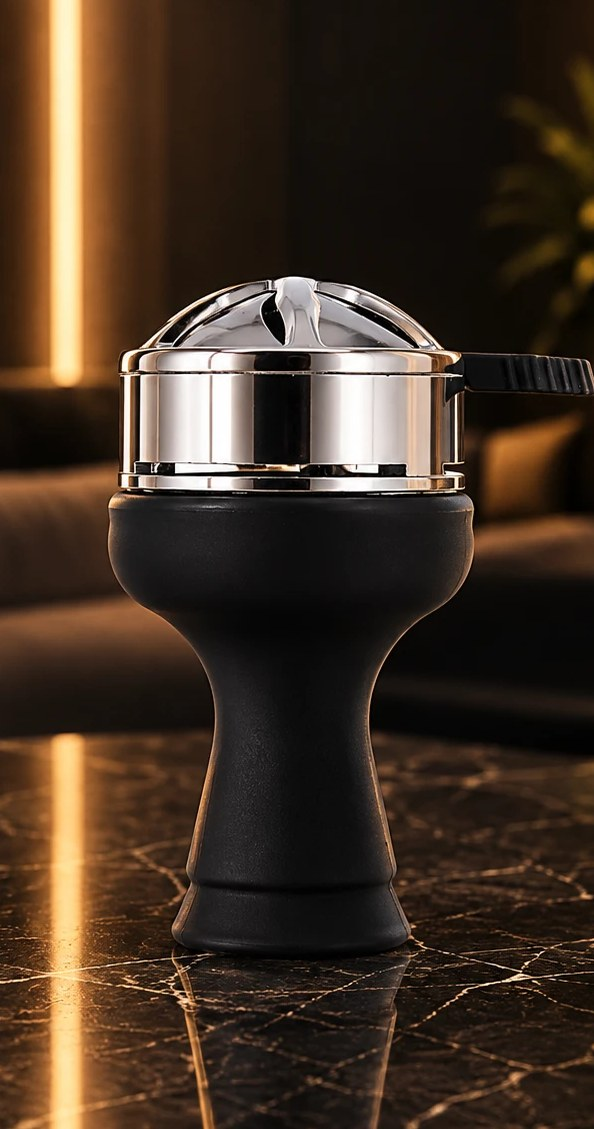
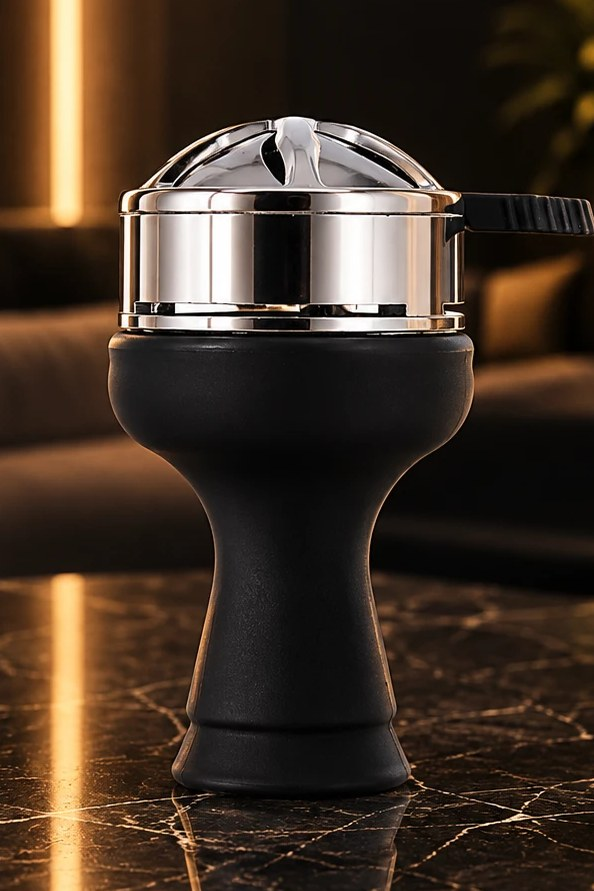
Carte : chichas recadrées au centre (2:3), photos Quasar et Quasar + Tête inversées, cartes produits photo pleine avec nom et prix sur l'image, reflet et entrée animée
Claude-Session: https://claude.ai/code/session_01BejmgSmocDxL4pRLqQbBKK

diff --git a/src/app/[locale]/carte/[categorie]/page.tsx b/src/app/[locale]/carte/[categorie]/page.tsx
@@ -36,34 +36,47 @@ export default async function MenuCategoryPage({ params }: { params: Promise<{ l
         </ol>
       </nav>
 
-      <h1 className="pt-10 text-center text-[clamp(2.6rem,7vw,4rem)] leading-none">{tr(c.name, lang)}</h1>
+      <h1 className="enter-rise pt-10 text-center text-[clamp(2.6rem,7vw,4rem)] leading-none">{tr(c.name, lang)}</h1>
 
       {/* Autres catégories */}
-      <ul className="mt-6 flex justify-center gap-2 px-5">
+      <ul style={{ animationDelay: "0.1s" }} className="enter-rise mt-6 flex justify-center gap-2 px-5">
         {cats.map((x) => (
           <li key={x.id}>
-            <Link href={`/carte/${x.slug}`} className={x.id === c.id ? "block rounded-full bg-ink px-4 py-1.5 text-xs tracking-[0.15em] text-ivory uppercase" : "block rounded-full border border-ink/15 px-4 py-1.5 text-xs tracking-[0.15em] uppercase hover:border-ink"}>
+            <Link href={`/carte/${x.slug}`} className={x.id === c.id ? "block rounded-full bg-ink px-4 py-1.5 text-xs tracking-[0.15em] text-ivory uppercase" : "block rounded-full border border-ink/15 px-4 py-1.5 text-xs tracking-[0.15em] uppercase transition-colors hover:border-ink"}>
               {tr(x.name, lang)}
             </Link>
           </li>
         ))}
       </ul>
 
-      <ul className="mx-auto mt-10 grid max-w-5xl grid-cols-2 gap-3 px-4 pb-24 sm:gap-5 sm:px-8 md:grid-cols-3">
-        {c.items.map((it) => (
-          <li key={it.id}>
-            <Link href={`/carte/${c.slug}/${it.slug}`} className="group block overflow-hidden rounded-2xl bg-white shadow-soft transition-shadow hover:shadow-lift">
-              {/* Chichas : photos verticales (l'appareil en entier) ; boissons et desserts : carré */}
-              <div className={`relative overflow-hidden bg-ink ${c.section === "SHISHA" ? "aspect-[3/4]" : "aspect-square"}`}>
+      {/* Produits : grandes cartes photo, nom et prix posés sur l'image ; elles arrivent l'une après l'autre */}
+      <ul className="mx-auto mt-10 grid max-w-5xl grid-cols-2 gap-3 px-4 pb-24 sm:gap-6 sm:px-8 md:grid-cols-3">
+        {c.items.map((it, i) => (
+          <li key={it.id} style={{ animationDelay: `${0.15 + i * 0.09}s` }} className="enter-rise">
+            <Link
+              href={`/carte/${c.slug}/${it.slug}`}
+              className="group relative block overflow-hidden rounded-[1.4rem] bg-ink text-ivory shadow-soft ring-1 ring-ink/5 transition-[transform,box-shadow] duration-500 ease-[var(--ease-lux)] hover:-translate-y-1.5 hover:shadow-lift hover:ring-champagne/50"
+            >
+              {/* Chichas : photos verticales, l'appareil entier au centre ; boissons et desserts : 4:5 */}
+              <div className={`relative ${c.section === "SHISHA" ? "aspect-[2/3]" : "aspect-[4/5]"}`}>
                 {it.imageUrl ? (
-                  <Image src={it.imageUrl} alt={tr(it.name, lang)} fill sizes="(min-width: 768px) 320px, 50vw" className={`object-cover transition-transform duration-700 group-hover:scale-105 ${c.section === "SHISHA" ? "object-top" : ""}`} />
+                  <Image src={it.imageUrl} alt={tr(it.name, lang)} fill sizes="(min-width: 768px) 320px, 50vw" className="object-cover transition-transform duration-[1.2s] ease-[var(--ease-lux)] group-hover:scale-[1.07]" />
                 ) : (
                   <div className="grid size-full place-items-center"><Logo className="w-1/2 text-ivory/25" /></div>
                 )}
+                <div aria-hidden className="absolute inset-x-0 bottom-0 h-1/2 bg-gradient-to-t from-ink via-ink/60 to-transparent" />
+                {/* Reflet qui traverse la carte au survol */}
+                <div aria-hidden className="absolute inset-0 -translate-x-full bg-[linear-gradient(105deg,transparent_40%,rgb(255_255_255/0.14)_50%,transparent_60%)] transition-transform duration-[1.1s] ease-[var(--ease-lux)] group-hover:translate-x-full" />
+                {it.tags.includes("bestseller") && (
+                  <span className="absolute top-3 left-3 rounded-full bg-champagne px-2.5 py-1 text-[0.55rem] font-medium tracking-[0.2em] text-ink uppercase">{t("tag_bestseller")}</span>
+                )}
               </div>
-              <div className="px-3 py-4 text-center">
-                <h2 className="text-[1.05rem] font-medium leading-snug sm:text-lg">{tr(it.name, lang)}</h2>
-                {it.priceCents != null && <p className="mt-1 text-lg tabular-nums text-taupe-deep">{euro(it.priceCents, lang)}</p>}
+              <div className="absolute inset-x-0 bottom-0 flex items-end justify-between gap-2 p-3.5 sm:p-5">
+                <div>
+                  <h2 className="font-display text-[1.25rem] leading-tight sm:text-[1.6rem]">{tr(it.name, lang)}</h2>
+                  {it.priceCents != null && <p className="mt-1 text-sm tabular-nums text-champagne sm:text-base">{euro(it.priceCents, lang)}</p>}
+                </div>
+                <span aria-hidden className="grid size-8 shrink-0 place-items-center rounded-full border border-ivory/30 text-sm transition-all duration-500 group-hover:border-champagne group-hover:bg-champagne group-hover:text-ink sm:size-10">→</span>
               </div>
             </Link>
           </li>

diff --git a/src/app/[locale]/carte/[categorie]/[produit]/page.tsx b/src/app/[locale]/carte/[categorie]/[produit]/page.tsx
@@ -57,22 +57,22 @@ export default async function MenuItemPage({ params }: { params: Promise<{ local
       </nav>
 
       <div className="mx-auto max-w-3xl">
-        <div className={`relative bg-ink sm:mt-8 sm:overflow-hidden sm:rounded-2xl ${c.section === "SHISHA" ? "aspect-[4/5] sm:mx-auto sm:max-w-md" : "aspect-[4/3]"}`}>
+        <div className={`enter-rise relative overflow-hidden bg-ink sm:mt-8 sm:rounded-2xl ${c.section === "SHISHA" ? "aspect-[2/3] max-h-[78svh] sm:mx-auto sm:max-w-md" : "aspect-[4/3]"}`}>
           {it.imageUrl ? (
-            <Image src={it.imageUrl} alt={tr(it.name, lang)} fill priority sizes="(min-width: 768px) 768px, 100vw" className={`object-cover ${c.section === "SHISHA" ? "object-top" : ""}`} />
+            <Image src={it.imageUrl} alt={tr(it.name, lang)} fill priority sizes="(min-width: 768px) 768px, 100vw" className="animate-[slowzoom_18s_ease-in-out_infinite_alternate] object-cover motion-reduce:animate-none" />
           ) : (
             <div className="grid size-full place-items-center"><Logo className="w-1/3 text-ivory/25" /></div>
           )}
         </div>
 
-        <div className="px-6 pt-10 pb-6 text-center">
+        <div style={{ animationDelay: "0.15s" }} className="enter-rise px-6 pt-10 pb-6 text-center">
           {rule()}
           <h1 className="mt-5 text-[clamp(2.2rem,6vw,3.2rem)] leading-tight">{tr(it.name, lang)}</h1>
           {it.priceCents != null && <p className="mt-2 text-2xl tabular-nums text-taupe-deep">{euro(it.priceCents, lang)}</p>}
           <div className="mt-5">{rule(true)}</div>
         </div>
 
-        <div className="mx-auto max-w-xl px-6 pb-10 text-center">
+        <div style={{ animationDelay: "0.3s" }} className="enter-rise mx-auto max-w-xl px-6 pb-10 text-center">
           {(tags.length > 0 || it.subtitle) && (
             <p className="text-xs tracking-[0.2em] text-taupe-deep uppercase">{[...tags, it.subtitle ? tr(it.subtitle, lang) : ""].filter(Boolean).join(" · ")}</p>
           )}

diff --git a/src/components/home/menu-cards.tsx b/src/components/home/menu-cards.tsx
@@ -8,7 +8,7 @@ import { Ornament } from "@/components/ornament";
 
 // Photos de la carte officielle
 const CARDS = [
-  { key: "shisha", slug: "chichas", src: "/images/menu/quasar.jpg", r: "-6deg", pos: "object-top" },
+  { key: "shisha", slug: "chichas", src: "/images/menu/quasar-tete-quasar.jpg", r: "-6deg", pos: "" },
   { key: "drinks", slug: "cocktails", src: "/images/menu/mojito-framboise.jpg", r: "0deg", pos: "" },
   { key: "sweets", slug: "desserts", src: "/images/goia/cheesecake-speculoos.jpg", r: "6deg", pos: "" },
 ] as const;
